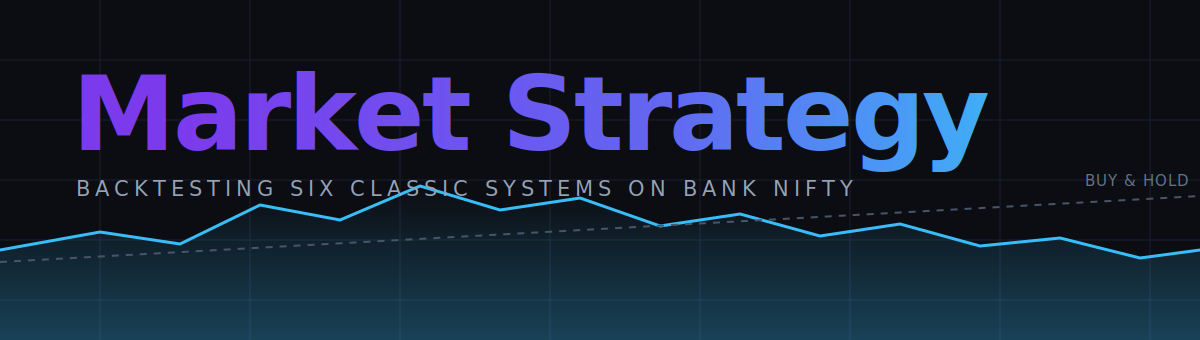
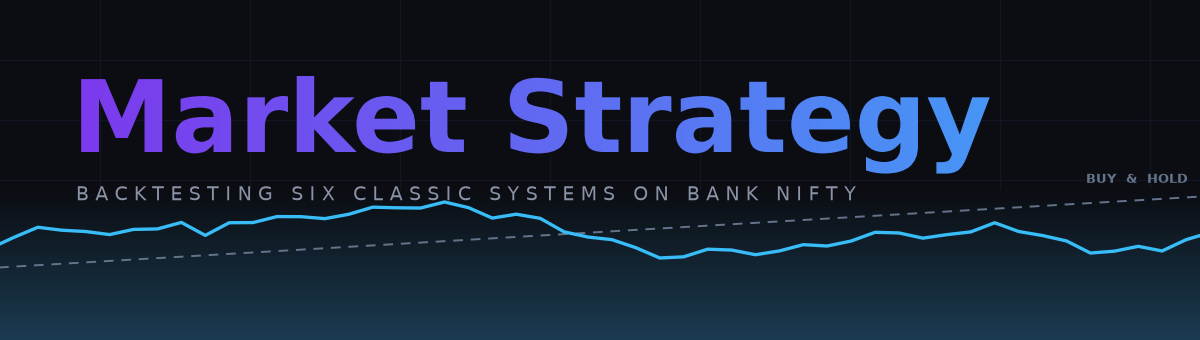
feat: add make_banner.py so the hero can be regenerated
banner.png was the one asset committed without the code that produced it.
The three result charts can be re-themed, resized or pointed at another
instrument; the hero could not, and when a stray white dot turned up over
the title there was nothing to re-run — the glyph underneath had to be
rebuilt by hand from the same letter elsewhere in the word.

Rebuilt from measurements of the committed image, matching it to within a
few pixels: title ink x 81-989 against 81-987, subtitle x 77-855 against
77-852, same palette as make_charts.py, same 150x60 grid.

Two details worth noting. matplotlib cannot fill text with a gradient, so
the glyph outlines are taken as a TextPath and used to clip an image drawn
across their bounding box. It also has no letter-spacing property, and the
subtitle depends on wide tracking, so each character is placed individually.

The equity line comes from a fixed seed rather than live prices — a hero
that changed with every data refresh would churn the diff for nothing. Its
amplitude is set so it clears the subtitle, which the previous banner did
not: the old line crossed the text in 7 of 92 sampled columns, this one in
none.

diff --git a/make_banner.py b/make_banner.py
@@ -1,0 +1,170 @@
+"""Generate the README hero banner.
+
+banner.png was the one asset committed without the code that produced it, so it
+could not be re-themed, resized, or pointed at a different instrument the way
+the three result charts can. It also could not be repaired: when a stray white
+dot turned up over the title, the glyph underneath had to be rebuilt by hand
+from the same letter elsewhere in the word.
+
+The equity line is drawn from a fixed seed rather than live prices — the banner
+is decoration, and a hero image that changes every time the data is refreshed
+would produce noise in the diff for no benefit.
+
+Usage:
+    python make_banner.py
+    python make_banner.py --title "Market Strategy" --out assets/banner.png
+"""
+
+import argparse
+
+import matplotlib
+matplotlib.use("Agg")
+import matplotlib.pyplot as plt
+import numpy as np
+from PIL import Image
+from matplotlib.colors import LinearSegmentedColormap
+from matplotlib.font_manager import FontProperties
+from matplotlib.patches import PathPatch
+from matplotlib.textpath import TextPath
+from matplotlib.transforms import Bbox
+
+# Same palette as make_charts.py, so the hero and the figures below it match.
+BG = "#0B0D12"
+GRID = "#131622"
+MUTED = "#64748B"
+PURPLE = "#7C3AED"
+BLUE = "#38BDF8"
+
+WIDTH, HEIGHT = 1200, 340
+DPI = 100
+
+# Measured from the original: verticals every 150px, horizontals every 60px.
+GRID_X = 150
+GRID_Y = 60
+
+# All measured off the committed banner: the title's ink spans x 81-987, the
+# subtitle's x 77-852. TITLE_X sits left of 81 because TextPath positions the
+# pen, not the ink, and the 'M' carries a left side bearing.
+TITLE_X = 72
+TITLE_BASELINE = 152
+TITLE_SIZE = 100
+TITLE_END = "#4796F6"
+
+SUBTITLE_X = 76
+SUBTITLE_Y = 186
+SUBTITLE_SIZE = 13.5
+SUBTITLE_TRACKING = 6.3
+
+TITLE = "Market Strategy"
+SUBTITLE = "BACKTESTING SIX CLASSIC SYSTEMS ON BANK NIFTY"
+
+
+def tracked_text(ax, fig, x, y, s, *, tracking, **kw):
+    """
+    Draw text with letter spacing.
+
+    matplotlib's Text has no tracking property, and the banner's small caps
+    rely on it heavily, so each character is placed individually and the pen
+    advanced by its measured width plus the gap.
+    """
+    renderer = fig.canvas.get_renderer()
+    pen = x
+    for ch in s:
+        t = ax.text(pen, y, ch, **kw)
+        if ch == " ":
+            pen += kw.get("fontsize", 12) * 0.42 + tracking
+            t.remove()
+            continue
+        w = t.get_window_extent(renderer).width
+        pen += w + tracking
+    return pen
+
+
+def equity_walk(n: int = 52, seed: int = 11) -> np.ndarray:
+    """A plausible-looking equity path. Fixed seed keeps the banner stable."""
+    rng = np.random.default_rng(seed)
+    steps = rng.normal(0.12, 1.0, n)
+    walk = np.cumsum(steps)
+    return walk - walk.min()
+
+
+def draw(title: str, subtitle: str, out: str) -> None:
+    fig = plt.figure(figsize=(WIDTH / DPI, HEIGHT / DPI), dpi=DPI, facecolor=BG)
+    ax = fig.add_axes([0, 0, 1, 1])
+    ax.set_facecolor(BG)
+    ax.set_xlim(0, WIDTH)
+    ax.set_ylim(0, HEIGHT)
+    ax.axis("off")
+
+    # Everything below is positioned in pixels-from-the-top, the way the
+    # original was measured; Y flips that into the axes' y-up space.
+    Y = lambda y: HEIGHT - y
+
+    for x in range(GRID_X - 50, WIDTH, GRID_X):
+        ax.axvline(x, color=GRID, linewidth=1, zorder=0)
+    for y in range(GRID_Y, HEIGHT, GRID_Y):
+        ax.axhline(Y(y), color=GRID, linewidth=1, zorder=0)
+
+    # ---- the strategy line, over a band that fades into the background -----
+    walk = equity_walk()
+    xs = np.linspace(-10, WIDTH + 10, len(walk))
+    span = walk.max() - walk.min() or 1
+    # The subtitle's baseline sits at y=196, so the line is kept below 200.
+    # Amplitude, not position, is what stops it cutting through the text.
+    ys = Y(258 - (walk - walk.min()) / span * 56)
+
+    fade = LinearSegmentedColormap.from_list("fade", [BG, "#1B3B51"])
+    ax.imshow(
+        np.linspace(0, 1, 256).reshape(-1, 1),
+        cmap=fade, aspect="auto", extent=[0, WIDTH, 0, Y(190)], zorder=1,
+    )
+    ax.plot(xs, ys, color=BLUE, linewidth=2.4, solid_joinstyle="round", zorder=3)
+
+    # ---- buy & hold: the benchmark the whole study is measured against -----
+    ax.plot(xs, Y(np.linspace(268, 196, len(walk))), color=MUTED,
+            linewidth=1.4, linestyle=(0, (5, 4)), zorder=2)
+    ax.text(WIDTH - 12, Y(186), "BUY  &  HOLD", color=MUTED, fontsize=9.5,
+            ha="right", va="bottom", fontweight="bold", zorder=4)
+
+    # ---- title, filled with a horizontal gradient --------------------------
+    # matplotlib cannot fill text with a gradient, so the glyph outlines are
+    # taken as a path and used to clip an image drawn across their bounding box.
+    font = FontProperties(family="DejaVu Sans", weight="bold", size=TITLE_SIZE)
+    path = TextPath((TITLE_X, Y(TITLE_BASELINE)), title, prop=font)
+    clip = PathPatch(path, facecolor="none", edgecolor="none", zorder=5)
+    ax.add_patch(clip)
+
+    bb = path.get_extents()
+    ramp = LinearSegmentedColormap.from_list("title", [PURPLE, TITLE_END])
+    grad = ax.imshow(
+        np.linspace(0, 1, 512).reshape(1, -1),
+        cmap=ramp, aspect="auto", zorder=6,
+        extent=[bb.x0, bb.x1, bb.y0, bb.y1],
+    )
+    grad.set_clip_path(clip)
+
+    tracked_text(fig=fig, ax=ax, x=SUBTITLE_X, y=Y(SUBTITLE_Y), s=subtitle,
+                 tracking=SUBTITLE_TRACKING, color="#8A93A6",
+                 fontsize=SUBTITLE_SIZE, va="top", ha="left", zorder=5)
+
+    fig.savefig(out, dpi=DPI, facecolor=BG,
+                bbox_inches=Bbox([[0, 0], [WIDTH / DPI, HEIGHT / DPI]]))
+    plt.close(fig)
+
+    # matplotlib writes RGBA; the committed banner is RGB, and an alpha channel
+    # on an opaque image only inflates the file.
+    Image.open(out).convert("RGB").save(out)
+    print(f"Banner written to {out}")
+
+
+def main() -> None:
+    parser = argparse.ArgumentParser(description="Generate the README banner.")
+    parser.add_argument("--title", default=TITLE)
+    parser.add_argument("--subtitle", default=SUBTITLE)
+    parser.add_argument("--out", default="assets/banner.png")
+    args = parser.parse_args()
+    draw(args.title, args.subtitle, args.out)
+
+
+if __name__ == "__main__":
+    main()
